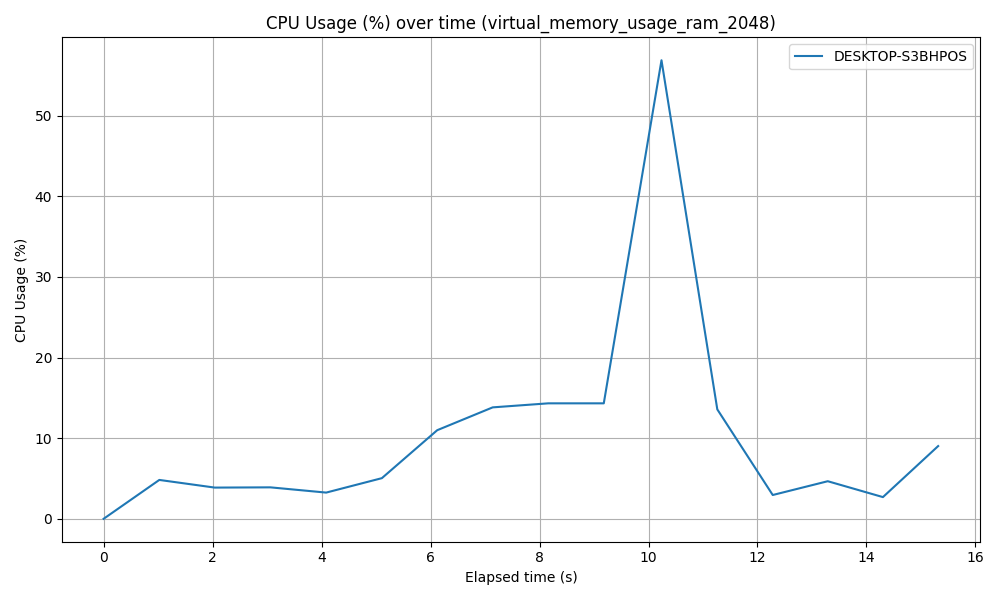
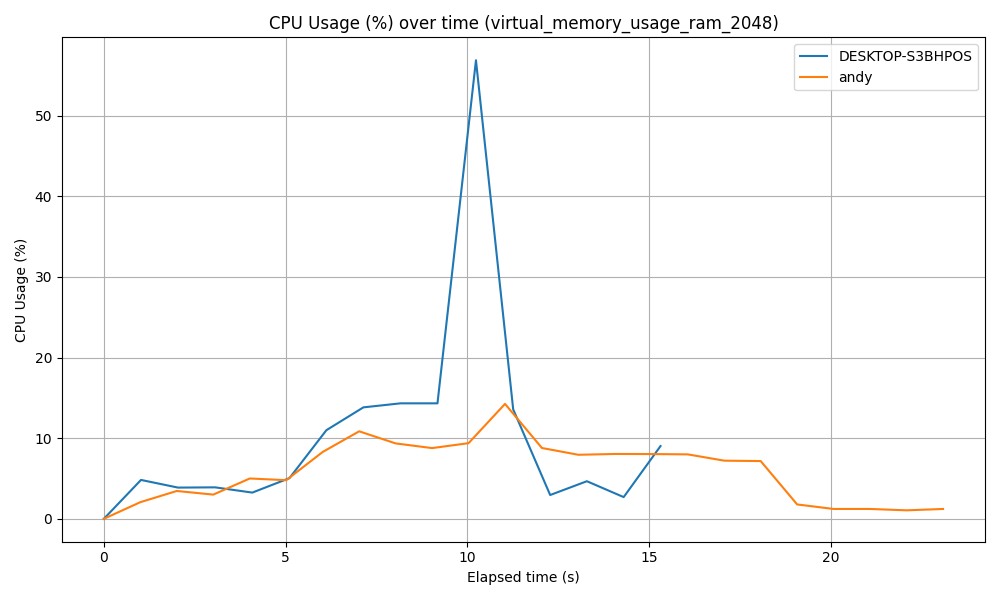
fix ram

diff --git a/scripts/plot_ram_usage.py b/scripts/plot_ram_usage.py
@@ -6,7 +6,9 @@ import os
 csv_pattern = "../static/ram/csv/virtual_memory_usage_*.csv"
 
 plot_dir = "../static/ram/plots/usage"
-os.makedirs(plot_dir, exist_ok=True)
+os.makedirs(f"{plot_dir}/cpu", exist_ok=True)
+os.makedirs(f"{plot_dir}/ram", exist_ok=True)
+os.makedirs(f"{plot_dir}/disk", exist_ok=True)
 
 if __name__ == "__main__":
     csv_paths = glob.glob(csv_pattern)
@@ -15,25 +17,25 @@ if __name__ == "__main__":
 
     for path in csv_paths:
         df = pd.read_csv(path, parse_dates=["Timestamp"])
-        t0 = df["Timestamp"].iloc[0]
-        df["ElapsedSec"] = (df["Timestamp"] - t0).dt.total_seconds()
-
         base = os.path.splitext(os.path.basename(path))[0]
 
         plt.figure(figsize=(10, 6))
         if "Device" in df.columns:
             for device in df["Device"].unique():
-                subset = df[df["Device"] == device]
+                subset = df[df["Device"] == device].copy()
+                t0 = subset["Timestamp"].iloc[0]
+                subset["ElapsedSec"] = (subset["Timestamp"] - t0).dt.total_seconds()
                 plt.plot(subset["ElapsedSec"], subset["CPU_Percent"], label=device)
             plt.legend()
         else:
+            df["ElapsedSec"] = (df["Timestamp"] - df["Timestamp"].iloc[0]).dt.total_seconds()
             plt.plot(df["ElapsedSec"], df["CPU_Percent"])
         plt.title(f"CPU Usage (%) over time ({base})")
         plt.xlabel("Elapsed time (s)")
         plt.ylabel("CPU Usage (%)")
         plt.grid(True)
-        cpu_out = f"{plot_dir}/cpu/{base}_cpu.png"
         plt.tight_layout()
+        cpu_out = f"{plot_dir}/cpu/{base}_cpu.png"
         plt.savefig(cpu_out)
         plt.close()
         print(f"Saved {cpu_out}")
@@ -41,17 +43,20 @@ if __name__ == "__main__":
         plt.figure(figsize=(10, 6))
         if "Device" in df.columns:
             for device in df["Device"].unique():
-                subset = df[df["Device"] == device]
+                subset = df[df["Device"] == device].copy()
+                t0 = subset["Timestamp"].iloc[0]
+                subset["ElapsedSec"] = (subset["Timestamp"] - t0).dt.total_seconds()
                 plt.plot(subset["ElapsedSec"], subset["RAM_Used_Percent"], label=device)
             plt.legend()
         else:
+            df["ElapsedSec"] = (df["Timestamp"] - df["Timestamp"].iloc[0]).dt.total_seconds()
             plt.plot(df["ElapsedSec"], df["RAM_Used_Percent"])
         plt.title(f"RAM Usage (%) over time ({base})")
         plt.xlabel("Elapsed time (s)")
         plt.ylabel("RAM Usage (%)")
         plt.grid(True)
-        ram_out = f"{plot_dir}/ram/{base}_ram.png"
         plt.tight_layout()
+        ram_out = f"{plot_dir}/ram/{base}_ram.png"
         plt.savefig(ram_out)
         plt.close()
         print(f"Saved {ram_out}")
@@ -59,17 +64,20 @@ if __name__ == "__main__":
         plt.figure(figsize=(10, 6))
         if "Device" in df.columns:
             for device in df["Device"].unique():
-                subset = df[df["Device"] == device]
+                subset = df[df["Device"] == device].copy()
+                t0 = subset["Timestamp"].iloc[0]
+                subset["ElapsedSec"] = (subset["Timestamp"] - t0).dt.total_seconds()
                 plt.plot(subset["ElapsedSec"], subset["Disk_Util_Percent"], label=device)
             plt.legend()
         else:
+            df["ElapsedSec"] = (df["Timestamp"] - df["Timestamp"].iloc[0]).dt.total_seconds()
             plt.plot(df["ElapsedSec"], df["Disk_Util_Percent"])
         plt.title(f"Disk Utilization (%) over time ({base})")
         plt.xlabel("Elapsed time (s)")
         plt.ylabel("Disk Utilization (%)")
         plt.grid(True)
-        disk_out = f"{plot_dir}/disk/{base}_disk.png"
         plt.tight_layout()
+        disk_out = f"{plot_dir}/disk/{base}_disk.png"
         plt.savefig(disk_out)
         plt.close()
         print(f"Saved {disk_out}")

diff --git a/src/testbench/TestVirtualMemory.java b/src/testbench/TestVirtualMemory.java
@@ -165,19 +165,16 @@ public class TestVirtualMemory {
 
 
             String outCsv = String.format("static/ram/csv/virtual_memory_usage_%s_%d.csv", mode, fileSizeMB);
-            try (PrintWriter pw = new PrintWriter(new FileWriter(outCsv))) {
-                pw.println("Timestamp,CPU_Percent,RAM_Used_Percent,Disk_Util_Percent,Mode,Device");
+            try (CSVLogger logger = new CSVLogger(outCsv, new String[]{
+                    "Timestamp", "CPU_Percent", "RAM_Used_Percent", "Disk_Util_Percent", "Mode", "Device"
+            })) {
                 synchronized (samples) {
                     for (Sample s : samples) {
-                        pw.printf(
-                                "%s,%.2f,%.2f,%.2f,%s,%s%n",
-                                s.timestamp,
-                                s.cpuPercent,
-                                s.ramPercent,
-                                s.diskPercent,
-                                s.mode,
-                                s.device
-                        );
+                        logger.writeRow(s.timestamp,
+                                String.format("%.2f", s.cpuPercent),
+                                String.format("%.2f", s.ramPercent),
+                                String.format("%.2f", s.diskPercent),
+                                s.mode, s.device);
                     }
                 }
             } catch (IOException e) {
